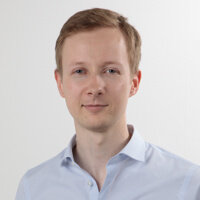
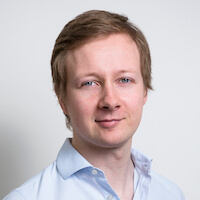
Add max to employees list

diff --git a/core/arrays/epotekEmployees.js b/core/arrays/epotekEmployees.js
@@ -52,6 +52,14 @@ const employees = [
     title: 'Marketing & Communications',
   },
   {
+    email: 'max@e-potek.ch',
+    src: '/img/team/max.jpg',
+    name: 'Max Martinez',
+    title: 'Conseiller en financement',
+    phoneNumber: '+41 22 566 82 95',
+    _id: 'NumFEubdw2nra6Su8',
+  },
+  {
     email: '',
     src: '/img/team/harrison.jpg',
     name: 'Harrison Mean',
